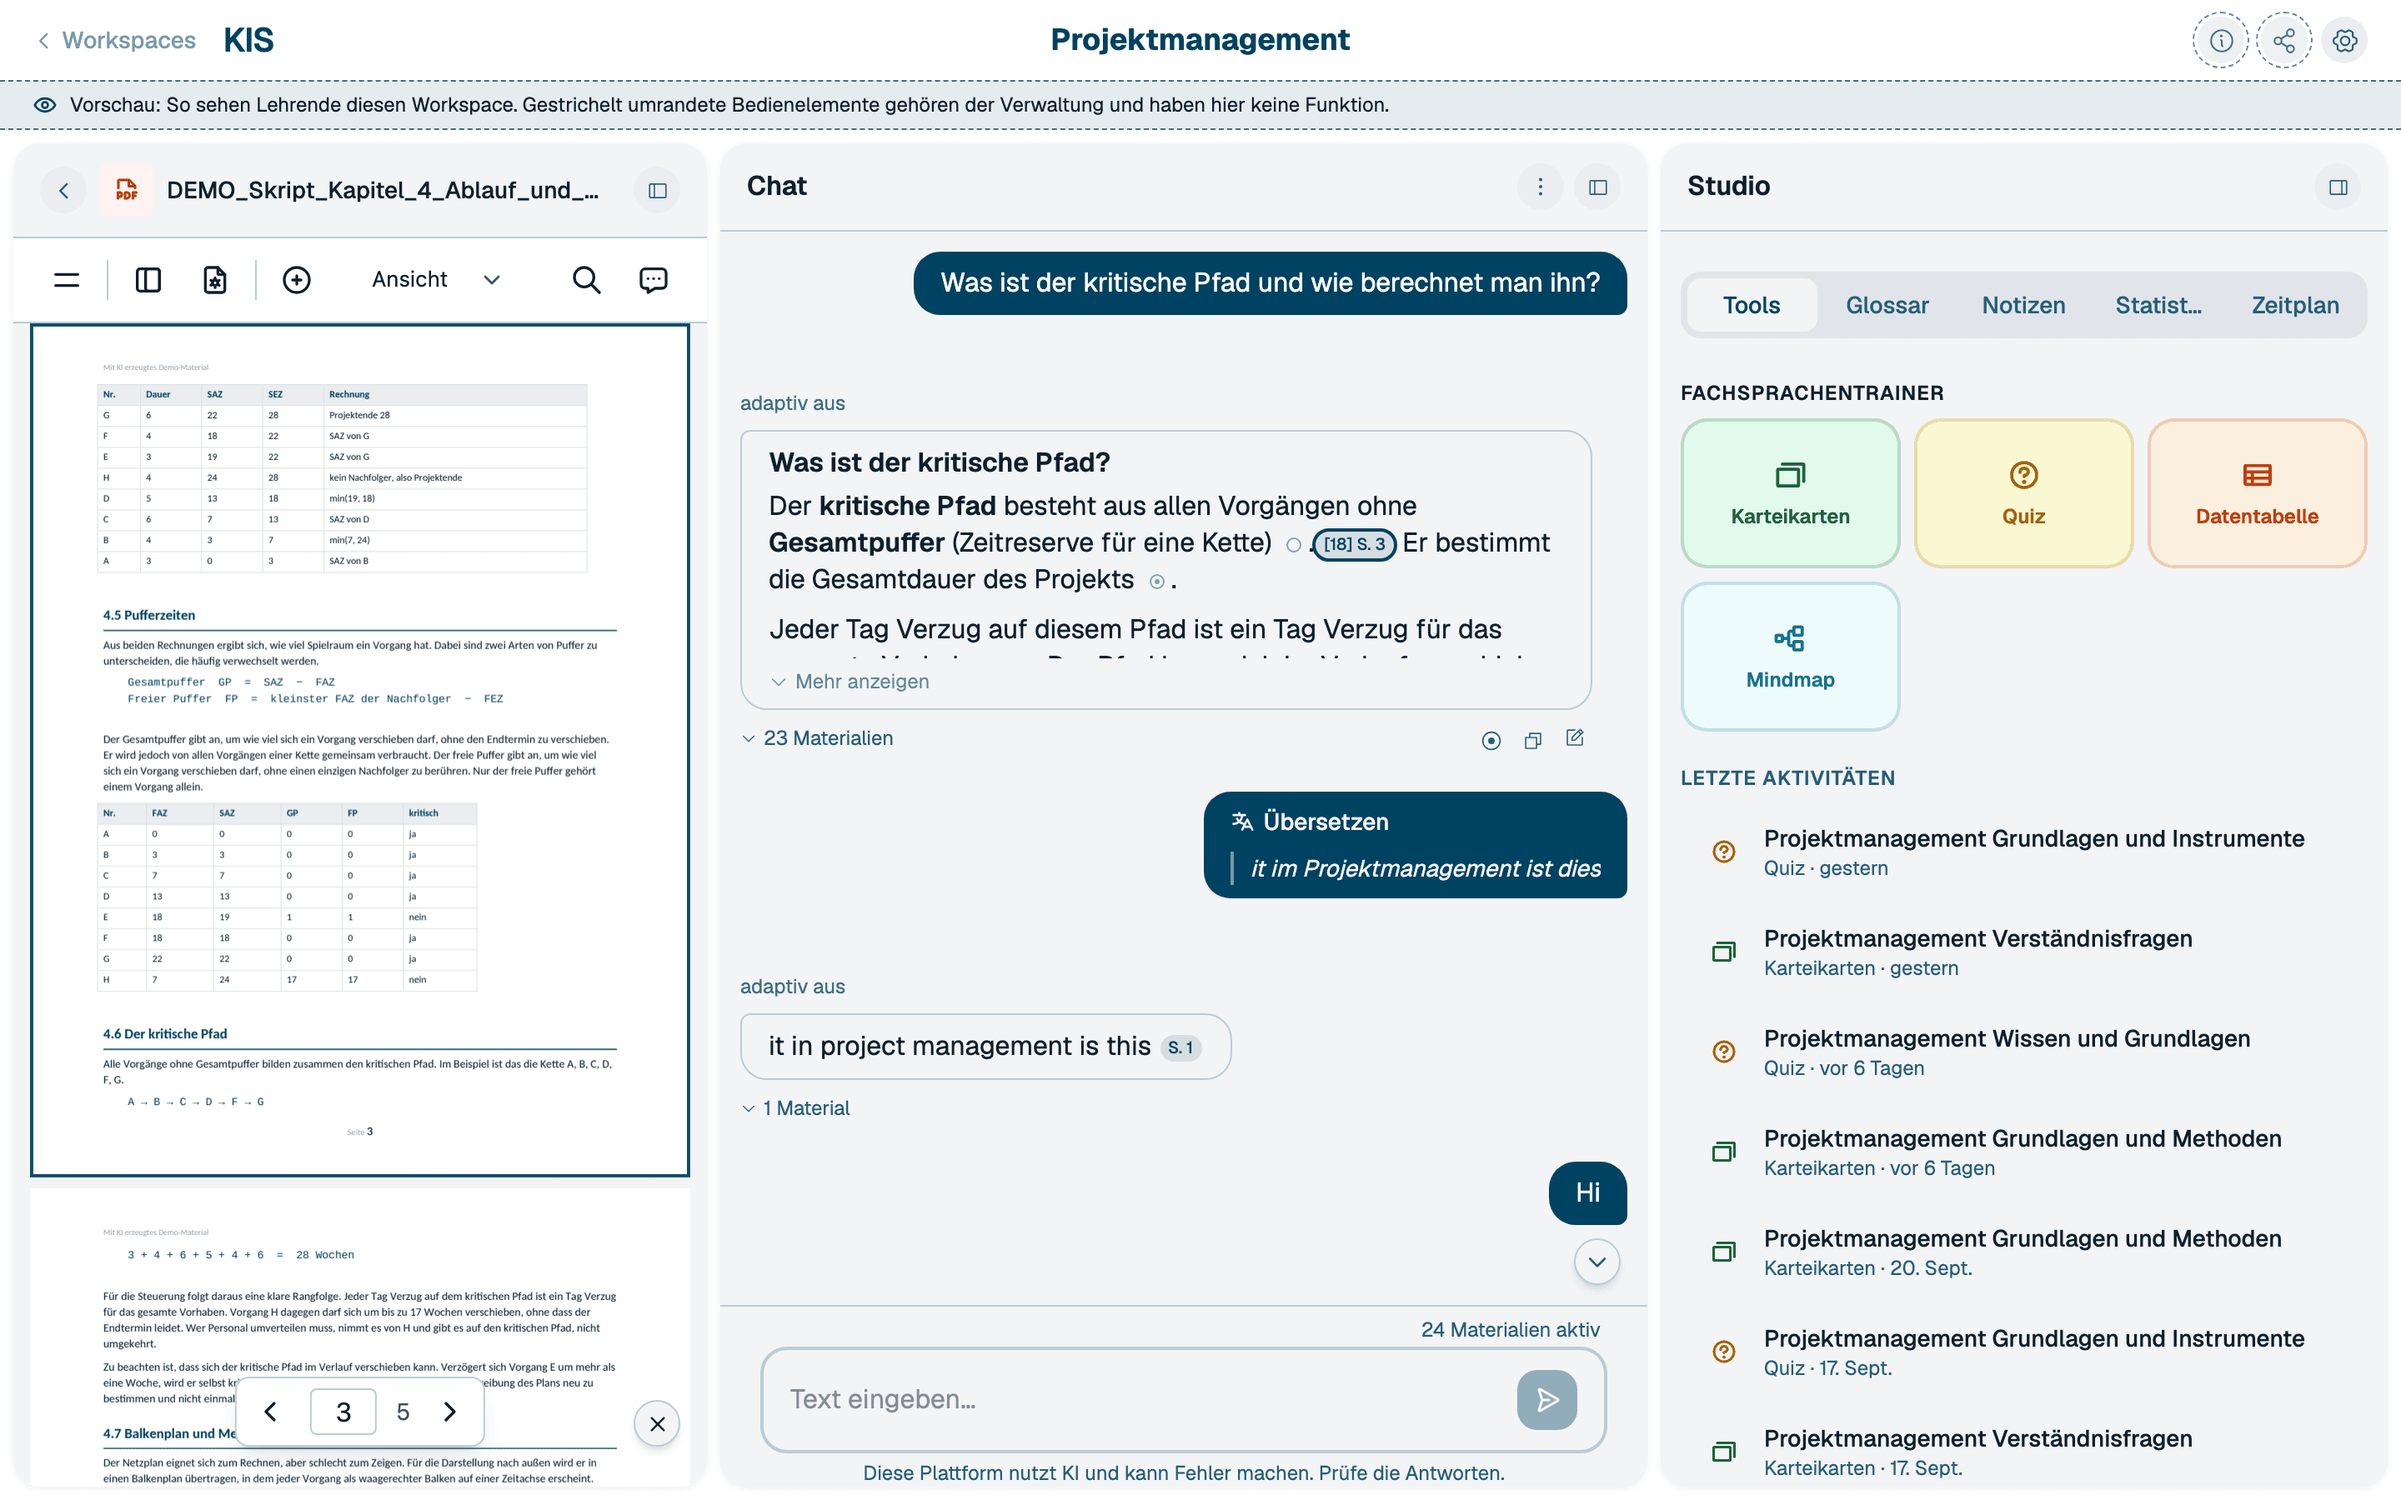
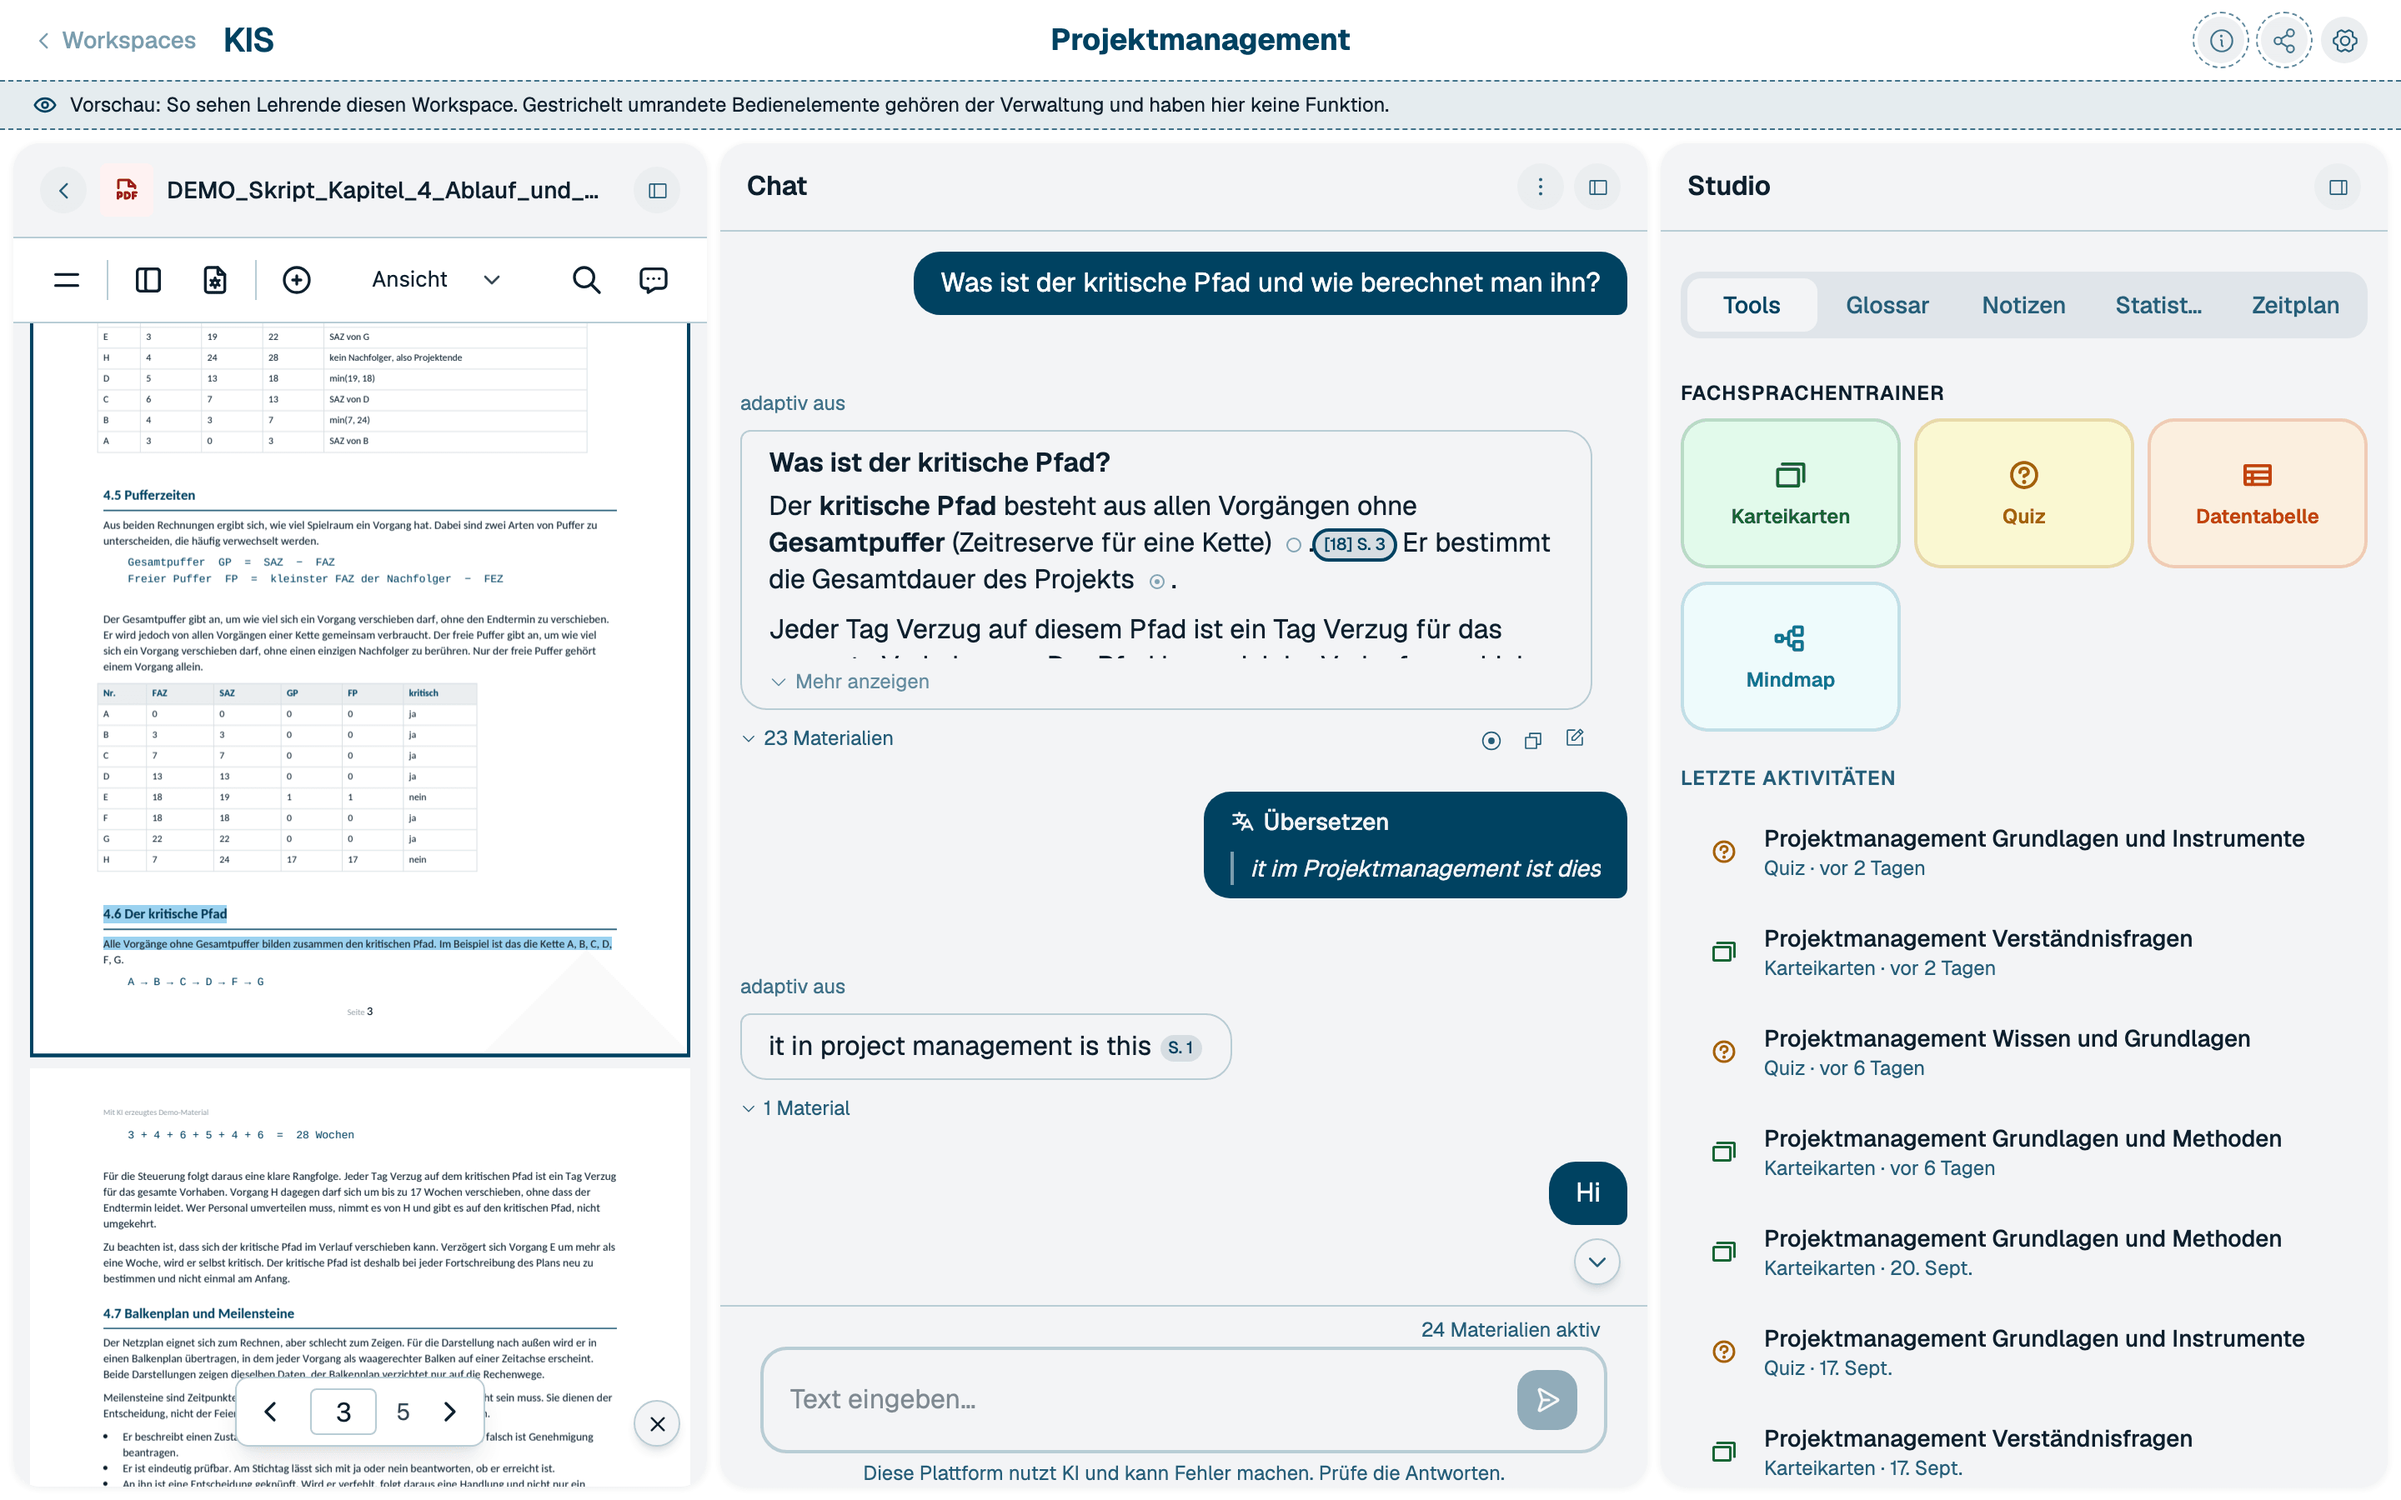
fix(aia): Fundstelle eines Belegs wird jetzt wirklich hellblau markiert
Drei Fehler zusammen sorgten dafuer, dass die Markierung nie zu sehen war:

1. Stand vor einem Beleg fettgedruckter Text (z.B. "**Gesamtpuffer**"),
   bekam die Fundstellen-Suche nur den Text seit dem letzten Fett-Lauf
   als Kontext, weil parseCitations je Markdown-Textknoten einzeln
   aufgerufen wird. withCitations traegt den Klartext frueherer
   Geschwister jetzt als precedingText mit, _citations.tsx.
2. Der EmbedPDF-Render-Plugin zeichnet Annotationen nur, wenn
   render.withAnnotations gesetzt ist, das fehlte im Viewer komplett,
   PdfViewer.tsx.
3. Die eigene Markierung nutzte opacity 0.4, was dieser Renderer nicht
   zeichnet. Der native Markieren-Knopf nutzt opacity 1 mit einer
   blassen Farbe fuer denselben Effekt, _highlight.ts jetzt genauso.

Neuer Test _citations_claim_context.test.ts für den ersten Fehler.
citation-jump.png und highlight-controls.png neu aufgenommen, zeigen
jetzt die Markierung.

diff --git a/frontend/src/app/[locale]/workspace/[uuid]/_components/chat/_citations.tsx b/frontend/src/app/[locale]/workspace/[uuid]/_components/chat/_citations.tsx
@@ -4,6 +4,30 @@ import type { ChatMessage } from "../../_types";
 import { citationPattern, citationsAreAdjacentSameTarget, stripCitations, type CitationFields } from "./_citation_parse";
 
 
+// The plain text of a node, so a bold or italic run still counts as context for the claim
+// that follows it. Unknown element shapes contribute nothing, same as before this existed.
+function _plainTextOf(node: React.ReactNode): string {
+  if (typeof node === "string") return node;
+  if (typeof node === "number") return String(node);
+  if (Array.isArray(node)) return node.map(_plainTextOf).join("");
+  if (React.isValidElement(node)) {
+    const children = (node.props as { children?: React.ReactNode })?.children;
+    return children != null ? _plainTextOf(children) : "";
+  }
+  return "";
+}
+
+// What is left of a text run after its last citation marker, so a sibling fragment without
+// its own marker still carries the right context forward to the next one that has one.
+function _carryAfter(fragment: string, before: string): string {
+  const pattern = citationPattern();
+  let lastEnd = -1;
+  let m: RegExpExecArray | null;
+  while ((m = pattern.exec(fragment)) !== null) lastEnd = m.index + m[0].length;
+  return lastEnd === -1 ? before + fragment : fragment.slice(lastEnd);
+}
+
+
 // The target just jumped to, at module scope so it survives a redraw.
 let _activeChipTarget: string | null = null;
 const _activeChipSubs = new Set<() => void>();
@@ -303,6 +327,9 @@ export function parseCitations(
   keyPrefix: string = "c",
   tChip?: ChipLabelT,
   takePunctuation: boolean = true,
+  // Plain text of earlier siblings in the same paragraph, lost otherwise when a bold or
+  // italic run splits the sentence before the first citation of this fragment.
+  precedingText: string = "",
 ): React.ReactNode[] {
   const msgSourcePages = msg.source_pages ?? [];
   const msgQmap = msg.source_qmap ?? [];
@@ -448,8 +475,9 @@ export function parseCitations(
       n++;
     }
 
-    // The text since the previous site is backed, no sentence splitting.
-    const claim = text.slice(last, first.start).trim();
+    // The text since the previous site is backed, no sentence splitting. Before the first
+    // site in this fragment, prepend what preceded it in the same paragraph.
+    const claim = (last === 0 ? precedingText + text.slice(last, first.start) : text.slice(last, first.start)).trim();
     const kept = run.slice(0, MAX_CHIPS_PER_GROUP).map(c => ({ ...c, claim }));
     // Only a collapsed site takes the punctuation along.
     const folded = takePunctuation && !first.isExactSelection;
@@ -490,11 +518,21 @@ export function withCitations(
   takePunctuation: boolean = true,
 ): React.ReactNode {
   const arr: React.ReactNode[] = Array.isArray(children) ? children : [children];
-  return arr.flatMap((child, idx) =>
-    typeof child === "string"
-      ? parseCitations(child, msg, activeSourceIds, getFilename, onChipClick, `${nodePrefix}c${idx}-`, tChip, takePunctuation)
-      : [child],
-  );
+  // Carries the plain text of siblings a bold or italic run split off, so the first
+  // citation after such a run still gets the whole sentence as its claim.
+  let carry = "";
+  return arr.flatMap((child, idx) => {
+    if (typeof child !== "string") {
+      carry += _plainTextOf(child);
+      return [child];
+    }
+    const nodes = parseCitations(
+      child, msg, activeSourceIds, getFilename, onChipClick,
+      `${nodePrefix}c${idx}-`, tChip, takePunctuation, carry,
+    );
+    carry = _carryAfter(child, carry);
+    return nodes;
+  });
 }
 
 

diff --git a/frontend/src/app/[locale]/workspace/[uuid]/_components/chat/_citations_claim_context.test.ts b/frontend/src/app/[locale]/workspace/[uuid]/_components/chat/_citations_claim_context.test.ts
@@ -1,0 +1,67 @@
+import { describe, it, expect } from "vitest";
+import { createElement, type ReactElement } from "react";
+import { withCitations } from "./_citations";
+import type { ChatMessage } from "../../_types";
+
+// Reproduces how a markdown renderer actually hands a paragraph to withCitations: bold runs
+// arrive as their own <strong> elements, splitting the surrounding sentence into several
+// string siblings. A citation chip right after such a run must still see the whole sentence,
+// not just the text since the last bold run, otherwise the PDF highlight finds nothing.
+const msg = {
+  role: "assistant",
+  content: "",
+  source_qmap: [{ qnum: 18, uuid: "u18", filename: "Kapitel_4.pdf" }],
+  source_pages: [],
+} as unknown as ChatMessage;
+
+const getFilename = () => "Kapitel_4.pdf";
+const noop = () => {};
+
+type GroupProps = { chips: Array<{ claim?: string }> };
+function firstClaim(nodes: React.ReactNode): string | undefined {
+  const arr = nodes as ReactElement[];
+  const group = arr.find((n) => typeof n !== "string" && (n.type as { name?: string })?.name === "CitationChipGroup");
+  return (group?.props as GroupProps | undefined)?.chips[0]?.claim;
+}
+
+describe("withCitations — claim context across bold runs", () => {
+  it("carries the plain text of an earlier bold run into the claim", () => {
+    const children = [
+      "Der ",
+      createElement("strong", { key: "b" }, "kritische Pfad"),
+      " besteht aus allen Vorgängen ohne Gesamtpuffer (Zeitreserve für eine Kette) [18, S. 3] Weiter.",
+    ];
+    const claim = firstClaim(withCitations(children, msg, ["u18"], getFilename, noop));
+    expect(claim).toBe(
+      "Der kritische Pfad besteht aus allen Vorgängen ohne Gesamtpuffer (Zeitreserve für eine Kette)",
+    );
+  });
+
+  it("carries text across two bold runs", () => {
+    const children = [
+      "Der ",
+      createElement("strong", { key: "b1" }, "kritische Pfad"),
+      " braucht ",
+      createElement("strong", { key: "b2" }, "Gesamtpuffer"),
+      " als Reserve [18, S. 3].",
+    ];
+    const claim = firstClaim(withCitations(children, msg, ["u18"], getFilename, noop));
+    expect(claim).toBe("Der kritische Pfad braucht Gesamtpuffer als Reserve");
+  });
+
+  it("resets the carry after a citation, so a later one does not repeat the first sentence", () => {
+    const children = [
+      "Satz eins mit ",
+      createElement("strong", { key: "b" }, "Begriff"),
+      " endet [18, S. 3]. Satz zwei ohne Fettung endet auch [18, S. 4].",
+    ];
+    const claim = firstClaim(withCitations(children, msg, ["u18"], getFilename, noop));
+    expect(claim).toBe("Satz eins mit Begriff endet");
+  });
+
+  it("stays correct for a plain string with no preceding sibling", () => {
+    const children = ["Ein Satz ohne Fettung [18, S. 3]."];
+    const claim = firstClaim(withCitations(children, msg, ["u18"], getFilename, noop));
+    expect(claim).toBe("Ein Satz ohne Fettung");
+  });
+});

diff --git a/frontend/src/app/[locale]/workspace/[uuid]/_components/viewer/_highlight.ts b/frontend/src/app/[locale]/workspace/[uuid]/_components/viewer/_highlight.ts
@@ -1,5 +1,6 @@
 // Programmatic highlights: a selection of your own, and the spot a chip claim rests on.
 
+import { PdfBlendMode } from "@embedpdf/models";
 import { findClaimSpot, normalizePageText } from "./_claim_match";
 
 export type HighlightRefs = {
@@ -14,7 +15,9 @@ type DrawOpts = { scroll?: boolean; append?: boolean };
 
 // A passive light blue mark, not a text selection.
 export const CITATION_HL_COLOR = "#9BD2F0";   // helles CD-Blau, dasselbe wie beim Markieren-Werkzeug
-const CITATION_HL_OPACITY = 0.4;
+// Matches the native highlighter's own default: the renderer only paints opacity 1 reliably,
+// the paleness of CITATION_HL_COLOR itself is what keeps the mark soft.
+const CITATION_HL_OPACITY = 1;
 const HIGHLIGHT_SUBTYPE = 9;           // PdfAnnotationSubtype.HIGHLIGHT
 
 // The page frame on a chip jump, as a square instead of a highlight.
@@ -262,6 +265,9 @@ export function drawCitationHighlight(
       strokeColor: CITATION_HL_COLOR,
       color: CITATION_HL_COLOR,
       opacity: CITATION_HL_OPACITY,
+      // Without this the highlight never paints, the native tool sets it through its own
+      // defaults, our marker skipped it until this was tracked down.
+      blendMode: PdfBlendMode.Multiply,
       // readOnly + locked so the user can't accidentally select/drag/edit our marker.
       flags: ["readOnly", "locked"],
       created: new Date(),

diff --git a/frontend/src/app/[locale]/workspace/[uuid]/_components/viewer/PdfViewer.tsx b/frontend/src/app/[locale]/workspace/[uuid]/_components/viewer/PdfViewer.tsx
@@ -488,6 +488,9 @@ export function PdfViewer({
             tabBar: "never",
             i18n: { defaultLocale: locale },
             search: { showAllResults: false },
+            // Without this the render plugin never bakes annotations into the page bitmap,
+            // so neither the highlight tool nor a citation's own highlight ever show.
+            render: { withAnnotations: true },
             annotations: {
               locked: { type: LockModeType.All },
               // The highlighter tool paints in house blue instead of the viewer's yellow.
